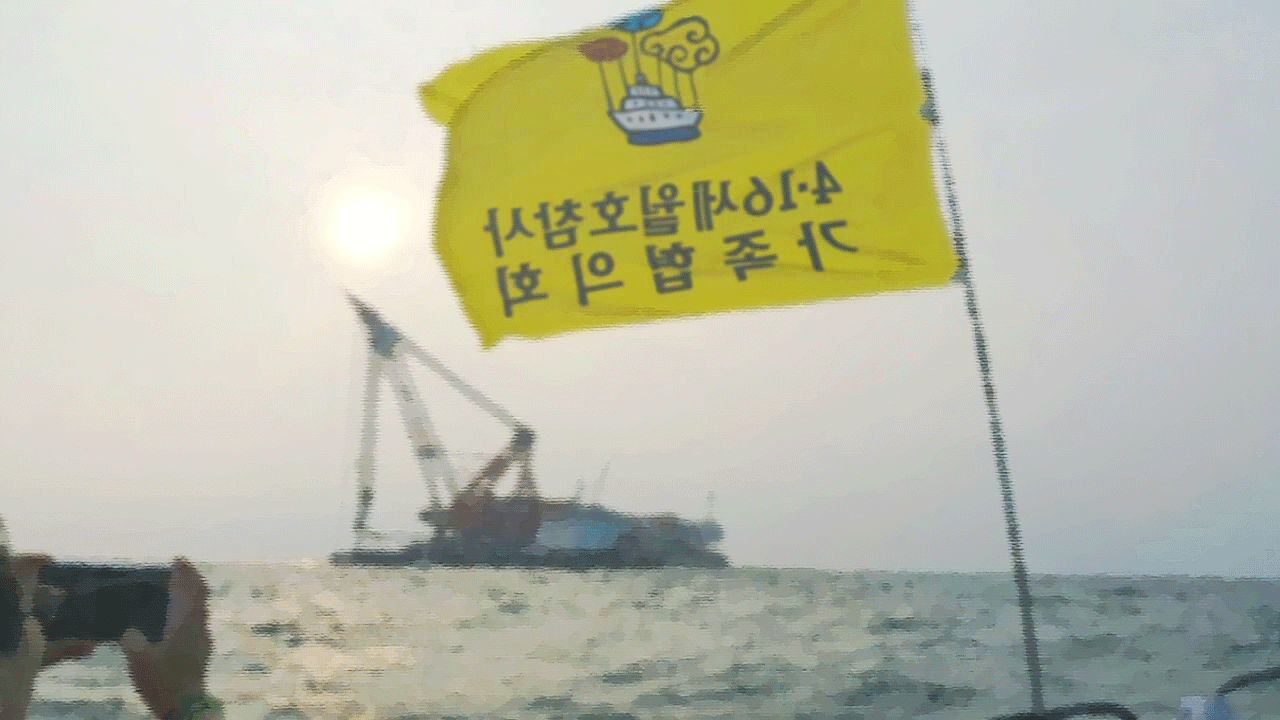
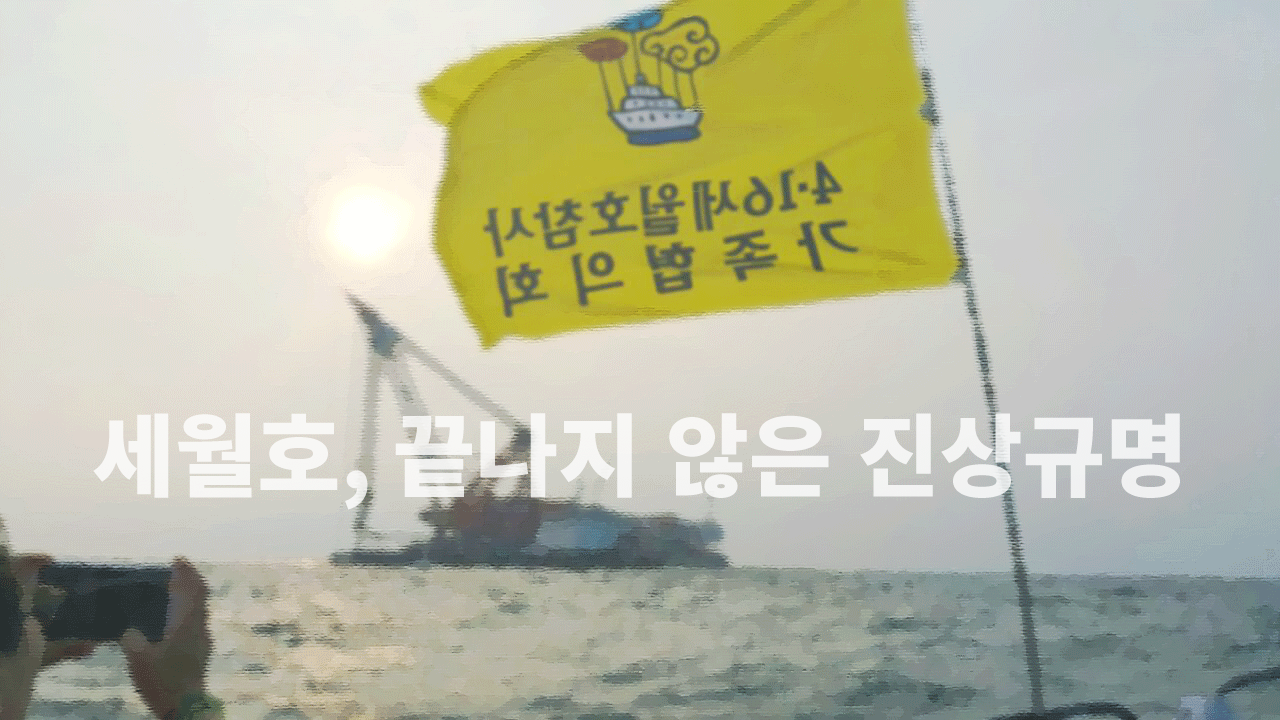
메타 태그 수정 중

Changed region(s): [[0.0625, 0.5806, 0.9375, 0.7028]]

diff --git a/index.dev.html.php b/index.dev.html.php
@@ -68,7 +68,7 @@ if(preg_match("/edit$/i",$_SERVER['REQUEST_URI'])) {
 	<meta name="twitter:title" content="세월호, 끝나지 않은 진상규명">
 	<meta name="twitter:description" content="세월호 선수들기가 성공했습니다. 그러나 이제 시작입니다. 가장 확실한 증거인 세월호 인양후 정밀조사는 특조위에 의해 수행되어야 합니다.">
 	<meta name="twitter:creator" content="세월호 가족협의회, 진보네트워크센터">
-	<meta name="twitter:image:src" content="http://www.taogi.net/416hearing/data/images/og.png">
+	<meta name="twitter:image:src" content="http://www.taogi.net/416hearing/data/images/og.png?3">
 	<meta name="twitter:domain" content="http://www.taogi.net/416hearing">
 </head>
 
